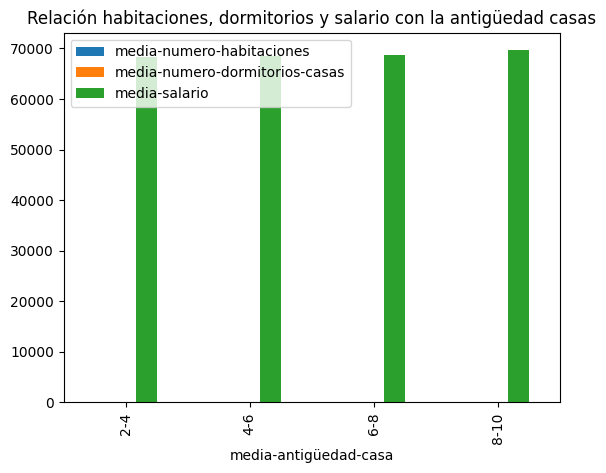
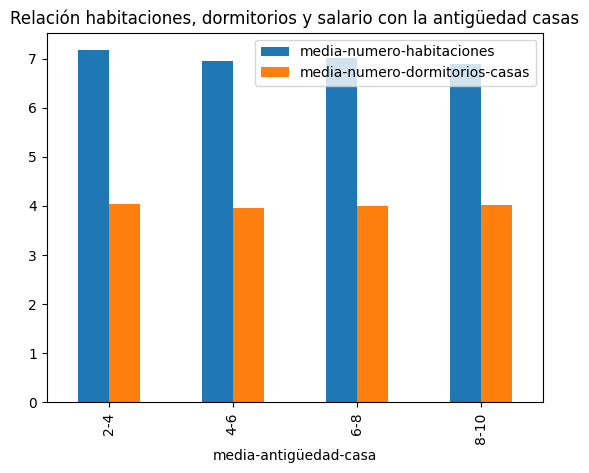
main

diff --git a/funciones.py b/funciones.py
@@ -2,53 +2,9 @@ import pandas as pd
 import matplotlib.pyplot as plt
 import numpy as np
 
-#Leemos el csv
-df = pd.read_csv('USA_Housing.csv', delimiter = ',', encoding='UTF-8')
-#Estas son las columnas que tiene nuestro csv
-print('-------------Columnas del csv-----------')
-print(df.columns)
-print('\n')
 
-#Vamos a traducir las columnas, es decir, vamos a cambiar sus nombres para que nos sea más fácil trabajar con ellas
-print('--------------Traducción de las columnas----------------')
-df.rename(columns= {'Price': 'precio', 'Address': 'direccion', 'Avg. Area Income': 'media-salario', 'Avg. Area House Age':
-    'media-antigüedad-casa', 'Avg. Area Number of Rooms': 'media-numero-habitaciones', 'Avg. Area Number of Bedrooms': 'media-numero-dormitorios-casas', 'Area Population':'poblacion'}, inplace=True)
-print(df.columns)
 
-print('\n')
-print('------------Datos del csv-------------')
-print(df.head()) 
-print(df.tail())
-'''Se usa para poder ver las primeras filas de nuestros datos y ver los distintos valores que tenemos asociados a las columnas. 
-Lo mismo con el .tail(), lo único que nos mostrará las últimas filas. Podemos usar ambos para ver los datos, aunque es más común el .head()'''
-
-print('\n')
-print('----------Descripción e información del csv----------------')
-print(df.describe())
-print(df.info())
-'''
-El .describe(), no enseña en una columna los datos más relevantes que necesitamos saber sobre este DataSet, incluye 
-la media, la desviación típica, los cuartiles uno, dos y tres, el mínimo, el máximo y la cantidad de datos que tenemos. 
-Nos lo realiza de cada columna de manera individual, lo cual es bastante útil para hacer una comparativa entre ellas.
-
-El .info(), nos mostrará en una columna la descripción básica de los datos, es decir, el tipo (float, integrer, string, etc.),
-el número de valores de cada columna y si son nulos.
-'''
-print('\n')
-print('----------Clasificación de las variables--------------')
-print('Variables categóricas: dirección')
-print('Variables numéricas: precio, media-salario, media-antigüedad-casa, media-numero-habitaciones,media-numero-dormitorios-casas, poblacion')
-'''
-Esta clasificación la haremos basándonos en la información que nos ha dado el .info().
-Las variables categóricas son todas aquellas que no son numéricas, es decir, que nos dan una descripción mediante palabras o símbolos.
-Si nos fijamos en lo que nos ha mostrado .info(), aquí podemos ver que dirección lo ha reconocido como un objeto, donde nos cabría la duda de si es un objeto numérico o no. Al ver
-los datos de dicha columna vemos con claridad que tiene que ir en la parte categórica, al ser una indentificación del lugar.
-Las variables numéricas son datos numéricos, como integrers, float, etc.
-'''
-
-print('\n')
-print('------------Análisis de las variables categóricas----------------')
-def bar_plt(variable):
+def bar_plt(df, variable):
     var = df[variable]
     varValue = var.value_counts() #nos va a contar los datos en función de cada columna
     
@@ -67,13 +23,12 @@ pero al solo tener una, no la podemos comparar non ninguna otra. Por eso esta fu
 se usará en este fichero.
 '''
 
-print('\n')
 
-def calculomedia(variable):
+def calculomedia(df, variable):
     m =  df[variable].sum()/df[variable].count()
     return m
 
-def calculovarianza(variable, media):
+def calculovarianza(df, variable, media):
     v = ((df[variable] - media)**2).sum()/(df[variable].count())
     return v
 
@@ -81,14 +36,10 @@ def calculovarianza(variable, media):
 Calculamos unos datos estadísticos de cada columna para que nos facilite la comparación entre los datos 
 y nos proporcione más información
 '''
-print('-----------Identificar valores nulos-----------')
-nulos = df.isnull().sum()
-print(nulos)
-print('\n')
 
 #Representación de cada variable numérica
-print('------------Análisis de las variables numérica----------------')
-def histograma(variable, media, desviacion_tipica, varianza, min, max):
+'''print('------------Análisis de las variables numérica----------------')'''
+def histograma(df, variable, media, desviacion_tipica, varianza, min, max):
 
     if media < 10:
         a = 0.01
@@ -104,41 +55,11 @@ def histograma(variable, media, desviacion_tipica, varianza, min, max):
     plt.axvline(media, color='red', linestyle='dashed', linewidth=1,label = str(media))
     plt.legend(loc='upper right')
     plt.savefig('img/Histograma-de-{}'.format(variable) + '.png', bbox_inches='tight')
-    plt.show()
-'''
-Tras ver estos histogramas podemos apreciar que algunas de las variables numéricas tienen una distribución simétrica, 
-es decir, se asemejan a la campana de Gauss. El gráfico en el que hemos podido ver esto, es el de la media-salario.
-El resto de valores, salvo la media-antigüedad-casa y media-numero-dormitorios-casas, presenta simetría pero no 
-la suficiente como para llegar a considerarse una campana de Gauss.
-Con todo esto podemos apreciar que según van avanzando los datos cada vez hay menos repeticiones. 
-
-Ahora vamos a analizar las variables de manera individual, viendo algunas caracteríaticas de ellas:
 
 
-1º Precio: Su distribución encaja con la campana de Gauss, es decir, la mayoría del precio del mercado suele mantenerse estandar, 
-para que sea más o menos asequible para todos los usuarios. Su media es de 1 millón de euros.
-
-
-2º Media-salario, es la que más se asemeja a la campana, dado que ningún valor se excede de dicha distribución. Por tanto, pasa 
-algo parecido al precio. La mayoría tiene 68 mil euros.
-
-
-3º media-antigüedad-casa, la mayoría de las casas rondan por los 5 o 7 años, auqnue tuvo una bajada hace 6 años.
-
-
-4º Media número de habitaciones, la media ronda por las 7 habitaciones por casa, pero algunas casas llegan a tener 8 habitaciones. 
-
-
-5º media-numero-dormitorios-casas, los datos se agrupan mediante intervalos perfectamente marcados, lo cual, 
-es imposible que presente simetría y tenga algún parecido con la campana. También podemos apreciar que la gran mayoría de casas
-contienen 2 o 3 dormitorios.
-
-6º poblacion, la media de personas que viven en un área es de 40000.
-
-'''
 
 #valores atípicos
-def criterioDeTukey(variable, primerCuartil, tercerCuartil):
+def criterioDeTukey(df, variable, primerCuartil, tercerCuartil):
     
     valoresAberrantesInferiores = []
     valoresAberrantesSuperiores = []
@@ -158,24 +79,9 @@ def criterioDeTukey(variable, primerCuartil, tercerCuartil):
 
     return (valoresAberrantes)
 
-
-'''numericVar = ['precio', 'media-salario', 'media-antigüedad-casa', 'media-numero-habitaciones','media-numero-dormitorios-casas', 'poblacion']
-for n in numericVar:
-    min = df[n].min()
-    max = df[n].max()
-    media = round(calculomedia(n), 2)
-    varianza = round(calculovarianza(n, media), 2)
-    desviacion_tip = round((varianza**(1/2)), 2)
-    q1 = np.percentile(df[n], 25)
-    q2 = np.percentile(df[n], 50)
-    q3 = np.percentile(df[n], 75)
-    atipicos = criterioDeTukey(n, q1, q3)
-    #Enseñamos aquellos valores que hacen que nuestra distribución varie tanto
-    print('Los valores atípicos de {}'.format(n) + ' son: ' + str(len(atipicos)) + '\n')
-    histograma( n, media, desviacion_tip, varianza, min, max)'''
     
 #comparamos: precio-antigüedad, precio-habitaciones, direccion-poblacion, poblacion-precio, habitaciones-dormitorios
-def graficas():
+def graficas(df):
     bins = [2, 4, 6, 8, 10]
     nombres = ['2-4', '4-6', '6-8', '8-10']
     df['media-antigüedad-casa'] = pd.cut(df['media-antigüedad-casa'], bins, labels = nombres)
@@ -197,8 +103,25 @@ def graficas():
     df5.plot(kind='bar')
     plt.title('Relación habitaciones, dormitorios y salario con la antigüedad casas')
     plt.savefig('img/Relación-habitaciones-dormitorios-salario-con-antigüedad' + '.png', bbox_inches='tight')
-    plt.show()
+    
     
 
 
-graficas()
+
+
+
+
+'''numericVar = ['precio', 'media-salario', 'media-antigüedad-casa', 'media-numero-habitaciones','media-numero-dormitorios-casas', 'poblacion']
+for n in numericVar:
+    min = df[n].min()
+    max = df[n].max()
+    media = round(calculomedia(n), 2)
+    varianza = round(calculovarianza(n, media), 2)
+    desviacion_tip = round((varianza**(1/2)), 2)
+    q1 = np.percentile(df[n], 25)
+    q2 = np.percentile(df[n], 50)
+    q3 = np.percentile(df[n], 75)
+    atipicos = criterioDeTukey(n, q1, q3)
+    #Enseñamos aquellos valores que hacen que nuestra distribución varie tanto
+    print('Los valores atípicos de {}'.format(n) + ' son: ' + str(len(atipicos)) + '\n')
+    histograma( n, media, desviacion_tip, varianza, min, max)'''

diff --git a/main.py b/main.py
@@ -1,17 +1,106 @@
 from funciones import*
 
 if __name__ =='__main__':
+    #Leemos el csv
+    df = pd.read_csv('USA_Housing.csv', delimiter = ',', encoding='UTF-8')
+    #Estas son las columnas que tiene nuestro csv
+    print('-------------Columnas del csv-----------')
+    print(df.columns)
+    print('\n')
+
+    #Vamos a traducir las columnas, es decir, vamos a cambiar sus nombres para que nos sea más fácil trabajar con ellas
+    print('--------------Traducción de las columnas----------------')
+    df.rename(columns= {'Price': 'precio', 'Address': 'direccion', 'Avg. Area Income': 'media-salario', 'Avg. Area House Age':
+        'media-antigüedad-casa', 'Avg. Area Number of Rooms': 'media-numero-habitaciones', 'Avg. Area Number of Bedrooms': 'media-numero-dormitorios-casas', 'Area Population':'poblacion'}, inplace=True)
+    print(df.columns)
+
+    print('\n')
+    print('------------Datos del csv-------------')
+    print(df.head()) 
+    print(df.tail())
+    '''Se usa para poder ver las primeras filas de nuestros datos y ver los distintos valores que tenemos asociados a las columnas. 
+    Lo mismo con el .tail(), lo único que nos mostrará las últimas filas. Podemos usar ambos para ver los datos, aunque es más común el .head()'''
+
+    print('\n')
+    print('----------Descripción e información del csv----------------')
+    print(df.describe())
+    print(df.info())
+    '''
+    El .describe(), no enseña en una columna los datos más relevantes que necesitamos saber sobre este DataSet, incluye 
+    la media, la desviación típica, los cuartiles uno, dos y tres, el mínimo, el máximo y la cantidad de datos que tenemos. 
+    Nos lo realiza de cada columna de manera individual, lo cual es bastante útil para hacer una comparativa entre ellas.
+
+    El .info(), nos mostrará en una columna la descripción básica de los datos, es decir, el tipo (float, integrer, string, etc.),
+    el número de valores de cada columna y si son nulos.
+    '''
+    print('\n')
+    print('----------Clasificación de las variables--------------')
+    print('Variables categóricas: dirección')
+    print('Variables numéricas: precio, media-salario, media-antigüedad-casa, media-numero-habitaciones,media-numero-dormitorios-casas, poblacion')
+    '''
+    Esta clasificación la haremos basándonos en la información que nos ha dado el .info().
+    Las variables categóricas son todas aquellas que no son numéricas, es decir, que nos dan una descripción mediante palabras o símbolos.
+    Si nos fijamos en lo que nos ha mostrado .info(), aquí podemos ver que dirección lo ha reconocido como un objeto, donde nos cabría la duda de si es un objeto numérico o no. Al ver
+    los datos de dicha columna vemos con claridad que tiene que ir en la parte categórica, al ser una indentificación del lugar.
+    Las variables numéricas son datos numéricos, como integrers, float, etc.
+    '''
+    print('\n')
+    print('------------Análisis de las variables categóricas----------------')
+    print('Como solo tenemos una variable categórica no podremos hacer una comparación.')
+    print('\n')
+    
+    print('-----------Identificar valores nulos-----------')
+    nulos = df.isnull().sum()
+    print(nulos)
+    print('\n')
+    
     numericVar = ['precio', 'media-salario', 'media-antigüedad-casa', 'media-numero-habitaciones','media-numero-dormitorios-casas', 'poblacion']
     for n in numericVar:
         min = df[n].min()
         max = df[n].max()
-        media = round(calculomedia(n), 2)
-        varianza = round(calculovarianza(n, media), 2)
+        
+        media = round(calculomedia(df, n), 2)
+        varianza = round(calculovarianza(df, n, media), 2)
         desviacion_tip = round((varianza**(1/2)), 2)
         q1 = np.percentile(df[n], 25)
         q2 = np.percentile(df[n], 50)
         q3 = np.percentile(df[n], 75)
-        atipicos = criterioDeTukey(n, q1, q3)
+        atipicos = criterioDeTukey(df, n, q1, q3)
         #Enseñamos aquellos valores que hacen que nuestra distribución varie tanto
         print('Los valores atípicos de {}'.format(n) + ' son: ' + str(len(atipicos)) + '\n')
-        histograma( n, media, desviacion_tip, varianza, min, max)
+        
+        print('------------Análisis de las variables numérica----------------')
+        histograma( df, n, media, desviacion_tip, varianza, min, max)
+        '''
+        Tras ver estos histogramas podemos apreciar que algunas de las variables numéricas tienen una distribución simétrica, 
+        es decir, se asemejan a la campana de Gauss. El gráfico en el que hemos podido ver esto, es el de la media-salario.
+        El resto de valores, salvo la media-antigüedad-casa y media-numero-dormitorios-casas, presenta simetría pero no 
+        la suficiente como para llegar a considerarse una campana de Gauss.
+        Con todo esto podemos apreciar que según van avanzando los datos cada vez hay menos repeticiones. 
+
+        Ahora vamos a analizar las variables de manera individual, viendo algunas caracteríaticas de ellas:
+
+
+        1º Precio: Su distribución encaja con la campana de Gauss, es decir, la mayoría del precio del mercado suele mantenerse estandar, 
+        para que sea más o menos asequible para todos los usuarios. Su media es de 1 millón de euros.
+
+
+        2º Media-salario, es la que más se asemeja a la campana, dado que ningún valor se excede de dicha distribución. Por tanto, pasa 
+        algo parecido al precio. La mayoría tiene 68 mil euros.
+
+
+        3º media-antigüedad-casa, la mayoría de las casas rondan por los 5 o 7 años, auqnue tuvo una bajada hace 6 años.
+
+
+        4º Media número de habitaciones, la media ronda por las 7 habitaciones por casa, pero algunas casas llegan a tener 8 habitaciones. 
+
+
+        5º media-numero-dormitorios-casas, los datos se agrupan mediante intervalos perfectamente marcados, lo cual, 
+        es imposible que presente simetría y tenga algún parecido con la campana. También podemos apreciar que la gran mayoría de casas
+        contienen 2 o 3 dormitorios.
+
+        6º poblacion, la media de personas que viven en un área es de 40000.
+
+        '''
+    
+    graficas(df)
